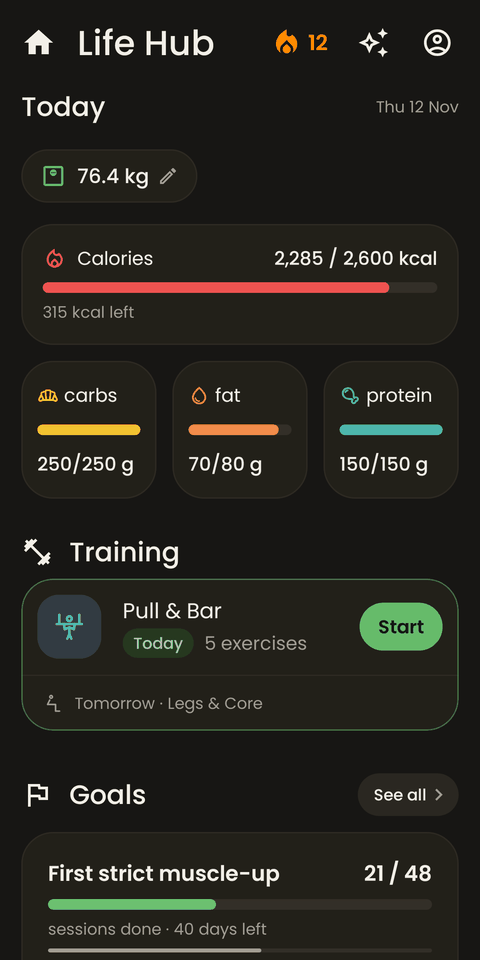
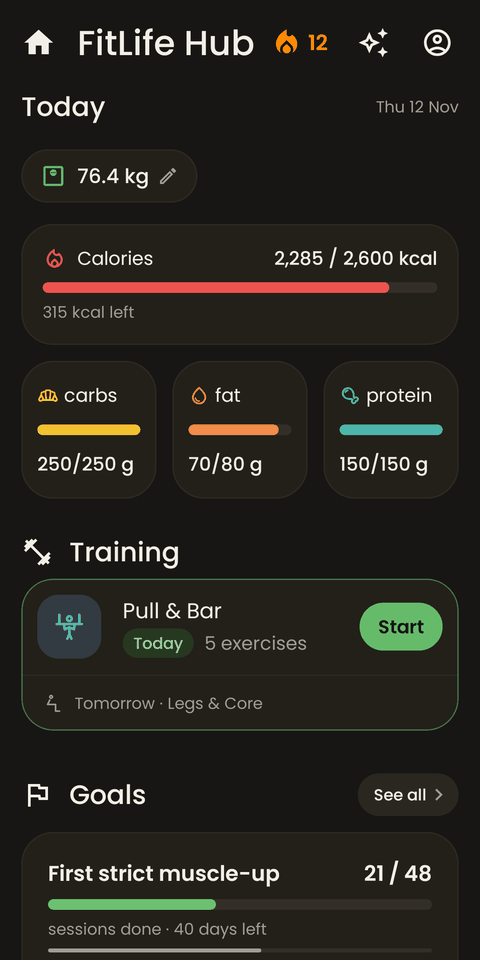
Rename display name to FitLife Hub, add Unlicense, dark chat screenshot, portable install.sh

Changed region(s): [[0.1562, 0.0312, 0.5312, 0.0625], [0.3125, 0.6562, 0.3438, 0.6875]]

diff --git a/app/src/main/java/com/lifehub/app/copilot/agent/AgentContext.kt b/app/src/main/java/com/lifehub/app/copilot/agent/AgentContext.kt
@@ -16,7 +16,7 @@ fun interface ContextProvider {
 /** System prompt: short, replies in Italian (owner decision 9), current date/time/zone. */
 object AgentContext {
     val BASE_PROMPT = """
-        Sei il Fitness Copilot dell'app Life Hub: aiuti l'utente con alimentazione, allenamenti, obiettivi e peso.
+        Sei il Fitness Copilot dell'app FitLife Hub: aiuti l'utente con alimentazione, allenamenti, obiettivi e peso.
         Rispondi sempre in italiano, in modo breve e diretto, in testo semplice: niente markdown, tabelle, elenchi o emoji.
         Leggi i dati solo con i tool. Non inventare dati e non fare calcoli su calorie o macro: riporta i numeri che i tool restituiscono (totali e residui li calcola l'app).
         Se un valore è null, "partial" o "unknown", dillo invece di stimarlo.

diff --git a/app/src/main/java/com/lifehub/app/feature/food/ScanScreen.kt b/app/src/main/java/com/lifehub/app/feature/food/ScanScreen.kt
@@ -152,7 +152,7 @@ fun ScanScreen(
                 is ScanUi.NeedsPermission -> LhEmptyState(
                     "Camera access needed",
                     description = if (ui.deniedBefore) "Without the camera we can't read barcodes. You can still search by name or create a custom food."
-                    else "Life Hub uses the camera only to read product barcodes. Nothing is recorded or stored.",
+                    else "FitLife Hub uses the camera only to read product barcodes. Nothing is recorded or stored.",
                     icon = Icons.Outlined.CameraAlt, actionText = "Allow camera", onAction = onRequestPermission,
                 )
                 ScanUi.PermanentlyDenied -> LhEmptyState(

diff --git a/app/src/main/java/com/lifehub/app/feature/settings/AboutScreen.kt b/app/src/main/java/com/lifehub/app/feature/settings/AboutScreen.kt
@@ -31,7 +31,7 @@ fun AboutRoute(onBack: () -> Unit) {
         Column(Modifier.fillMaxWidth().padding(16.dp), horizontalAlignment = Alignment.CenterHorizontally) {
             LhIconSquare(Icons.Outlined.Info, size = 72.dp, iconSize = 36.dp)
             Spacer(Modifier.height(12.dp))
-            Text("Life Hub", style = LhType.title, color = c.foreground)
+            Text("FitLife Hub", style = LhType.title, color = c.foreground)
             val ctx = androidx.compose.ui.platform.LocalContext.current
             val ver = remember { runCatching { ctx.packageManager.getPackageInfo(ctx.packageName, 0).versionName }.getOrNull() ?: "0.3" }
             Text("Version $ver", style = LhType.captionMuted)

diff --git a/app/src/test/java/com/lifehub/app/screenshots/ChatScreenshotTest.kt b/app/src/test/java/com/lifehub/app/screenshots/ChatScreenshotTest.kt
@@ -54,6 +54,12 @@ class ChatScreenshotTest {
         assertEquals(today, opened)
     }
 
+    @Test fun chatWithSummaryCardDark() {
+        rule.setContent { LhTheme(darkTheme = true) { ChatScreen(conversation, onBack = {}) } }
+        rule.onNodeWithText("99 g left").assertIsDisplayed()
+        rule.onRoot().captureRoboImage("build/screens/copilot-chat-dark.png")
+    }
+
     @Test fun chatWorkingAndNetworkErrorDark() {
         rule.setContent { LhTheme(darkTheme = true) {
             ChatScreen(conversation.copy(problem = ChatProblem.Failed("Couldn't reach the LLM server. Check your connection and the base URL.", retryable = true, network = true)), onBack = {})

diff --git a/app/src/main/java/com/lifehub/app/feature/settings/SettingsScreen.kt b/app/src/main/java/com/lifehub/app/feature/settings/SettingsScreen.kt
@@ -208,7 +208,7 @@ fun SettingsScreen(
 
             if (all) {
                 LhSectionHeader("About")
-                Text("Life Hub ${state.appVersion} · data schema v${com.lifehub.app.export.JsonCodec.SCHEMA_VERSION}", style = LhType.captionMuted, modifier = Modifier.padding(vertical = LhSpacing.sm))
+                Text("FitLife Hub ${state.appVersion} · data schema v${com.lifehub.app.export.JsonCodec.SCHEMA_VERSION}", style = LhType.captionMuted, modifier = Modifier.padding(vertical = LhSpacing.sm))
             }
         }
     }

diff --git a/app/src/main/java/com/lifehub/app/notifications/NotificationRules.kt b/app/src/main/java/com/lifehub/app/notifications/NotificationRules.kt
@@ -34,7 +34,7 @@ data class RuleInput(
 data class PendingNotification(val type: NotifType, val title: String, val text: String, val route: String, val key: String? = null)
 
 object NotificationRules {
-    private const val TITLE = "Life Hub"
+    private const val TITLE = "FitLife Hub"
 
     fun evaluate(i: RuleInput): List<PendingNotification> = buildList {
         fun capped(t: NotifType) = i.lastNotified[t] == i.today

diff --git a/README.md b/README.md
@@ -50,9 +50,9 @@ All screenshots are rendered in dark theme by the Roborazzi screenshot tests, us
 |:---:|:---:|:---:|:---:|:---:|
 | <img src="docs/screenshots/home.png" width="180" alt="Home"> | <img src="docs/screenshots/workout-live.png" width="180" alt="Live workout"> | <img src="docs/screenshots/train-plans.png" width="180" alt="Train"> | <img src="docs/screenshots/diary.png" width="180" alt="Diary"> | <img src="docs/screenshots/trends.png" width="180" alt="Trends"> |
 
-| Achievements | Copilot: meal logged | Copilot: inbox | Copilot: meal suggestion | Copilot: plan draft |
-|:---:|:---:|:---:|:---:|:---:|
-| <img src="docs/screenshots/achievements.png" width="180" alt="Achievements"> | <img src="docs/screenshots/copilot-meal-logged.png" width="180" alt="Copilot meal logged"> | <img src="docs/screenshots/copilot-inbox.png" width="180" alt="Copilot inbox"> | <img src="docs/screenshots/copilot-meal-suggestion.png" width="180" alt="Copilot meal suggestion"> | <img src="docs/screenshots/copilot-plan-draft.png" width="180" alt="Copilot plan draft"> |
+| Achievements | Copilot: chat | Copilot: meal logged | Copilot: inbox | Copilot: meal suggestion | Copilot: plan draft |
+|:---:|:---:|:---:|:---:|:---:|:---:|
+| <img src="docs/screenshots/achievements.png" width="180" alt="Achievements"> | <img src="docs/screenshots/copilot-chat.png" width="180" alt="Copilot chat"> | <img src="docs/screenshots/copilot-meal-logged.png" width="180" alt="Copilot meal logged"> | <img src="docs/screenshots/copilot-inbox.png" width="180" alt="Copilot inbox"> | <img src="docs/screenshots/copilot-meal-suggestion.png" width="180" alt="Copilot meal suggestion"> | <img src="docs/screenshots/copilot-plan-draft.png" width="180" alt="Copilot plan draft"> |
 
 ## Tech stack and architecture
 
@@ -75,7 +75,7 @@ Requirements: JDK 17 and the Android SDK (API 35).
 ./gradlew :app:recordRoborazziDebug --offline -q  # screenshots in app/build/screens/
 ```
 
-Install the debug APK on a device with `adb install -r app/build/outputs/apk/debug/<apk>`. `install.sh` does the same from WSL2 through Windows `adb.exe` (the path inside it is machine-specific).
+Install the debug APK on a device with `adb install -r app/build/outputs/apk/debug/<apk>`. `install.sh` does the same from WSL2 through Windows `adb.exe` (set `ADB=/path/to/adb.exe` if yours is not in the default Android SDK location).
 
 The app has no onboarding. To explore it without entering data, use **You → Data → Generate mock data**.
 
@@ -127,4 +127,8 @@ The app has no onboarding. To explore it without entering data, use **You → Da
 - [`docs/copilot/progress.md`](docs/copilot/progress.md): Copilot build log, phase by phase
 - [`docs/copilot/phase0-research.md`](docs/copilot/phase0-research.md): provider and data source research
 
-The package id remains `com.lifehub.app`, and the in-app name still shows "Life Hub".
+The Android package id is still `com.lifehub.app`.
+
+## License
+
+Public domain, released under [The Unlicense](LICENSE). Do whatever you want with it.
